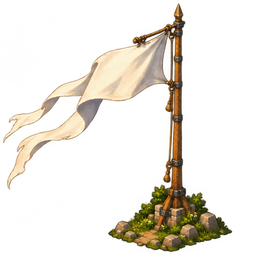
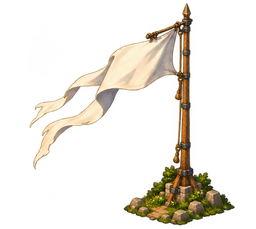
Raise a real flag when a settlement needs you
A bare pole stands behind every settlement; when it needs you the same
pole is drawn waving instead. Replaces the pole and pennant that were
drawn on canvas, which were always a placeholder for this.

Every frame of the sheet carries its own pole and base, so the swap is
one sprite for another — but the bare pole was drawn separately and does
not match: slenderer, proportionally taller, tall and narrow where a
frame is square. prep_assets.py now fits it, scaling by shaft height and
lining up the shaft and the footing against the frames' own square. The
reference is the frame standing where most of them stand, not frame 0,
which is the one that stands apart.

The frames are also planted now: each is nudged sideways until every
footing agrees, measured on the bottom sliver where only the base is.
Without it the pole hopped each time the loop wrapped. The report that
said `base: wanders 17px` says `base: steady`.

The pole stands behind and to the left. Behind because that is where a
pole goes, and because the name plate is drawn at a fixed pixel size
rather than in world units — a pole placed to clear it at one zoom would
be buried at another, while standing behind clears it at every zoom. To
the left because the flag flies left, so the cloth waves away from the
building rather than across it.

Cream for now. Tinting needs the cloth on its own sheet; see the plan.

Changed region(s): [[0.0, 0.0, 0.9375, 1.0]]

diff --git a/src/renderer/renderer.ts b/src/renderer/renderer.ts
@@ -52,6 +52,31 @@ const keep = (window as unknown as { keep: Keep }).keep;
 
 const MAP_RADIUS = 14;        // rings of hexes from the cottage
 const SPRITE_FRACTION = 1.15; // sprite width relative to hex width — tuned to the art
+/** Pole height in hex radii, and how many frames the flag waves in. */
+const FLAG_HEIGHT = 1.7;
+/**
+ * Where the pole stands relative to the settlement, in hex radii: left of it,
+ * and set back.
+ *
+ * Set back for two reasons. It reads as standing behind the building, which is
+ * where a pole goes, and it lifts the pole's base clear of the name plate —
+ * the plate is drawn at a fixed pixel size rather than in world units, so a
+ * pole placed to clear it at one zoom would be buried at another. Standing
+ * behind puts it above the plate at every zoom.
+ */
+const FLAG_BESIDE = 1.05;
+const FLAG_BEHIND = 0.5;
+const FLAG_FRAMES = 8;
+const FLAG_FPS = 11;
+/**
+ * Where the shaft sits across the flag sprite, left to right.
+ *
+ * The art is mostly cloth, so the pole itself is nowhere near the middle of the
+ * image — placing the sprite by its centre would stand the pole well right of
+ * where you meant. prep_assets.py prints this as `shaft x` when it fits the
+ * bare pole to the frames; it is that over the sprite's width.
+ */
+const FLAG_SHAFT = 183 / 256;
 const ZOOM_DEFAULT = 0.62;
 const ZOOM_MIN = 0.22;
 const ZOOM_MAX = 2.6;
@@ -684,24 +709,31 @@ function drawSprite(
 }
 
 /** The flag. Until there is needs-you art, it is drawn: a pole and a banner. */
-function drawFlag(cx: number, cy: number, size: number, t: number): void {
-  const bob = Math.sin(t / 260) * size * 0.04;
-  // Clear of the sprite, which stands about 1.2 hex-radii tall.
-  const top = cy - size * 1.5 + bob;
+/**
+ * The pole beside a settlement, and the flag it raises.
+ *
+ * A bare pole stands there always; when the settlement needs you the same pole
+ * is drawn waving, because every frame of the animation carries its own pole
+ * and base. prep_assets.py fits the bare one onto the frames' own square at
+ * the frames' own scale, so the swap moves nothing — the flag simply appears.
+ *
+ * It stands to the left, and the flag flies left, so the cloth waves away from
+ * the building rather than over it.
+ */
+function drawFlagPole(s: Settlement, cx: number, cy: number, size: number, t: number): void {
+  const raised = s.state === "needs_you";
+  const frame = Math.floor(t / (1000 / FLAG_FPS)) % FLAG_FRAMES;
+  const img = sprites[raised ? `flag-${frame}` : "flag-pole"];
+  if (!img) return;
+  const h = size * FLAG_HEIGHT;
+  const w = h * (img.width / img.height);
+  // Clear of the building's edge, and standing on the same line it stands on —
+  // its own art runs to the bottom of its sprite, so that is where the ground is.
+  const shaftX = cx - size * FLAG_BESIDE;
+  const ground = spriteFoot(artOf(s), cy, size) - size * FLAG_BEHIND;
   ctx.save();
-  ctx.strokeStyle = "#f0e4cf";
-  ctx.lineWidth = Math.max(1.5, size * 0.035);
-  ctx.beginPath();
-  ctx.moveTo(cx, top);
-  ctx.lineTo(cx, top + size * 0.5);
-  ctx.stroke();
-  ctx.fillStyle = "#e05a3c";
-  ctx.beginPath();
-  ctx.moveTo(cx, top);
-  ctx.lineTo(cx + size * 0.38, top + size * 0.1);
-  ctx.lineTo(cx, top + size * 0.21);
-  ctx.closePath();
-  ctx.fill();
+  if (s.state === "dormant") ctx.globalAlpha = 0.62;
+  ctx.drawImage(img, shaftX - w * FLAG_SHAFT, ground - h, w, h);
   ctx.restore();
 }
 
@@ -942,8 +974,9 @@ function draw(): void {
       });
       strokeHex(at.x, at.y, size, carrying.ok ? "rgba(240,246,248,.85)" : "rgba(224,90,60,.9)", 2.5);
     }
+    // Behind the building, so anything that leans in is overlapped by it.
+    drawFlagPole(s, dx, dy, size, t);
     drawSprite(artOf(s), dx, dy, size, s.state === "dormant", glows);
-    if (s.state === "needs_you") drawFlag(dx, dy, size, t);
 
     // The plate carries state too: amber when it wants you, washed out when dormant.
     const tint =
@@ -2212,7 +2245,13 @@ window.addEventListener("resize", () => {
 
   await Promise.all([
     loadGround(),
-    ...[...SETTLEMENT_ART.map((a) => a.value), "cottage", "banner"].map(loadSprite),
+    ...[
+      ...SETTLEMENT_ART.map((a) => a.value),
+      "cottage",
+      "banner",
+      "flag-pole",
+      ...Array.from({ length: FLAG_FRAMES }, (_, i) => `flag-${i}`),
+    ].map(loadSprite),
     // Canvas silently falls back if the face is not ready when text is drawn.
     document.fonts.load('21px "Kaushan Script"').catch(() => []),
   ]);

diff --git a/tools/prep_assets.py b/tools/prep_assets.py
@@ -50,7 +50,6 @@ JOBS = [
     ("bounty-board", "bounty-board", 512, True),
     ("library", "library", 512, True),
     ("post-office", "post-office", 512, True),
-    ("flag-pole", "flag-pole", 512, True),
 ]
 
 # Animation sheets: (source stem, output name, columns, rows, frame width, mirror)
@@ -524,6 +523,35 @@ def prepare_ground(width: int = 512) -> None:
     print(f"  ground.json: base + {len(patches)} patches")
 
 
+def plant(frames: "list[Image.Image]") -> "list[Image.Image]":
+    """Slide every frame sideways until they all stand in the same place.
+
+    Generated frames are not registered to each other. In this sheet the flag
+    waves — which is the point — but the pole and its rocks wander too, and a
+    pole that moves is a pole that hops when the loop wraps. The footing is
+    measured on the bottom sliver, where only the base is, and each frame is
+    nudged to the middle of the set. The canvas grows by the worst nudge so
+    nothing slides off the edge.
+    """
+    feet = []
+    for f in frames:
+        px = f.load()
+        w, h = f.size
+        xs = [x for y in range(int(h * 0.92), h) for x in range(w) if px[x, y][3] > 128]
+        feet.append(sum(xs) / len(xs) if xs else w / 2)
+    target = sorted(feet)[len(feet) // 2]
+    shifts = [round(target - c) for c in feet]
+    pad = max(abs(v) for v in shifts)
+    if not pad:
+        return frames
+    out = []
+    for f, dx in zip(frames, shifts):
+        canvas = Image.new("RGBA", (f.width + pad * 2, f.height), (0, 0, 0, 0))
+        canvas.alpha_composite(f, (pad + dx, 0))
+        out.append(canvas)
+    return out
+
+
 def sheet_report(name: str, frames: list[Image.Image]) -> None:
     """Two things you cannot tell by looking at a sheet, and need to know.
 
@@ -567,6 +595,117 @@ def sheet_report(name: str, frames: list[Image.Image]) -> None:
               f"{share}% of the sprite is that neutral, the rest is coloured and would tint too")
 
 
+def shaft_of(img: Image.Image, frac: float = 0.65) -> tuple[float, int, int]:
+    """Where the pole is: (centre x, top y, bottom y).
+
+    Read off a slice low enough to be below the cloth but above the base, so
+    the run it finds is the shaft itself. The top is then the highest pixel in
+    a band around that shaft — the finial — and the bottom is where the whole
+    sprite stands.
+    """
+    px = img.load()
+    w, h = img.size
+    rows = [y for y in range(h) if any(px[x, y][3] > 128 for x in range(w))]
+    top_all, bottom = rows[0], rows[-1]
+    y = int(top_all + (bottom - top_all) * frac)
+
+    runs, start = [], None
+    for x in range(w):
+        on = px[x, y][3] > 128
+        if on and start is None:
+            start = x
+        if not on and start is not None:
+            runs.append((start, x - 1))
+            start = None
+    if start is not None:
+        runs.append((start, w - 1))
+    # A highlight down the pole can split it in two; rejoin anything touching.
+    merged = []
+    for r in runs:
+        if merged and r[0] - merged[-1][1] <= max(3, w // 60):
+            merged[-1] = (merged[-1][0], r[1])
+        else:
+            merged.append(list(r) if False else (r[0], r[1]))
+    merged = [list(m) for m in merged]
+    # The shaft is the run standing over the sprite's footing.
+    feet = [x for x in range(w) if px[x, bottom - 1][3] > 128] or [w // 2]
+    anchor = (min(feet) + max(feet)) / 2
+    lo, hi = min(merged, key=lambda m: abs((m[0] + m[1]) / 2 - anchor))
+    centre = (lo + hi) / 2
+    band = max(2, int(w * 0.04))
+    top = next(
+        yy for yy in range(h)
+        if any(px[x, yy][3] > 128 for x in range(max(0, int(centre - band)), min(w, int(centre + band))))
+    )
+    return centre, top, bottom
+
+
+def median_frame(sheet: str) -> "Path | None":
+    """The frame to measure against: the one standing where most of them do.
+
+    Not frame 0. These are generated, and the first frame of this sheet is the
+    one that sits furthest from the rest — fitting the pole to it would plant
+    the pole where seven of the eight frames disagree.
+    """
+    # Numbered frames only — `flag-*.png` also catches `flag-pole.png`, which
+    # is the file this is being measured for.
+    frames = [q for q in OUT.glob(f"{sheet}-*.png") if q.stem.rsplit("-", 1)[1].isdigit()]
+    paths = sorted(frames, key=lambda q: int(q.stem.rsplit("-", 1)[1]))
+    if not paths:
+        return None
+    feet = []
+    for q in paths:
+        im = Image.open(q).convert("RGBA")
+        px = im.load()
+        w, h = im.size
+        xs = [x for y in range(int(h * 0.92), h) for x in range(w) if px[x, y][3] > 128]
+        feet.append((sum(xs) / len(xs) if xs else w / 2, q))
+    feet.sort(key=lambda t: t[0])
+    return feet[len(feet) // 2][1]
+
+
+def prepare_pole(stem: str = "flag-pole", name: str = "flag-pole", sheet: str = "flag", mirror: bool = True) -> None:
+    """Drop the bare pole into the flag frames' own square, in their own place.
+
+    The two were drawn separately and do not match: the bare pole is slenderer
+    and proportionally taller. Raising the flag swaps one for the other, so
+    what has to agree is where the pole stands and how tall it is — scale it by
+    shaft height, then line up the shaft and the footing. The base comes out a
+    little narrower than the one in the frames, which is the lesser of the
+    mismatches and the one you do not see.
+    """
+    src = SRC / f"{stem}.png"
+    reference = median_frame(sheet)
+    if not src.exists() or reference is None:
+        print(f"  !! cannot fit {stem}: need {src.name} and the {sheet} frames")
+        return
+
+    img = Image.open(src)
+    if img.mode in ("RGBA", "LA") and img.getchannel("A").getextrema()[0] < 250:
+        img = img.convert("RGBA")
+    else:
+        img = key_background(img)
+    box = img.getbbox()
+    if box:
+        img = img.crop(box)
+    if mirror:
+        img = img.transpose(Image.FLIP_LEFT_RIGHT)
+
+    frame = Image.open(reference).convert("RGBA")
+    fx, ftop, fbottom = shaft_of(frame)
+    px_, ptop, pbottom = shaft_of(img)
+
+    scale = (fbottom - ftop) / (pbottom - ptop)
+    sw, sh = max(1, round(img.width * scale)), max(1, round(img.height * scale))
+    img = img.resize((sw, sh), Image.LANCZOS)
+
+    canvas = Image.new("RGBA", frame.size, (0, 0, 0, 0))
+    canvas.alpha_composite(img, (round(fx - px_ * scale), round(fbottom - pbottom * scale)))
+    canvas.save(OUT / f"{name}.png", optimize=True)
+    print(f"  {stem}.png -> {name}.png  fitted to {reference.stem} at {canvas.size}"
+          f"  (scaled {scale:.3f}, shaft x {fx:.0f}, foot y {fbottom})")
+
+
 def prepare_sheets() -> None:
     """Slice each animation sheet into one PNG per frame."""
     for stem, name, cols, rows, width, mirror in SHEETS:
@@ -604,6 +743,8 @@ def prepare_sheets() -> None:
             union = (min(b[0] for b in boxes), min(b[1] for b in boxes),
                      max(b[2] for b in boxes), max(b[3] for b in boxes))
             frames = [f.crop(union) for f in frames]
+
+        frames = plant(frames)
 
         height = round(width * frames[0].height / frames[0].width)
         out = []
@@ -650,6 +791,7 @@ def main() -> int:
         flipped = " · mirrored" if mirror else ""
         print(f"  {stem}.png -> {dst.name}  {width}x{height}  ratio {img.width / img.height:.4f}{flipped}")
     prepare_sheets()
+    prepare_pole()
     prepare_ground()
     prepare_banner()
     prepare_parchment()

diff --git a/CHANGELOG.md b/CHANGELOG.md
@@ -13,6 +13,13 @@ and versions follow [semver](https://semver.org/) — loosely, while below 1.0.
 
 ### Added
 
+- **A flag pole beside every settlement, and a flag it raises.** A bare pole
+  stands behind each one; when it needs you the pole is drawn waving instead —
+  eight frames off a 4×2 sheet, at about 11fps. Every frame carries its own
+  pole and base, and `tools/prep_assets.py` fits the bare pole onto the frames'
+  square at the frames' scale, so raising the flag moves nothing. It replaces
+  the pole and pennant that were drawn on canvas. The flag is cream for now;
+  colours meaning different things can come later.
 - **Two more ways to give a settlement a folder.** Founding no longer assumes
   the folder already exists: the form offers *On disk* (as before), *New
   folder* — a name, created empty — and *Clone a repo* — a git URL, cloned and
